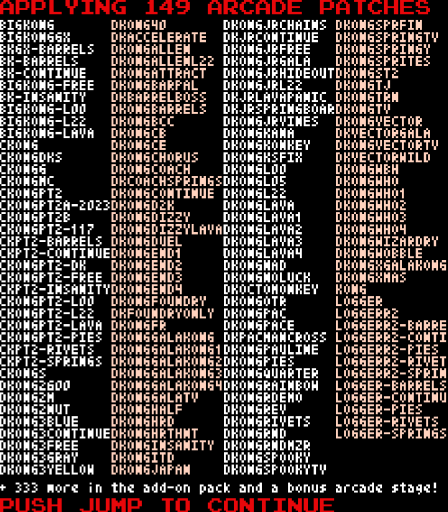
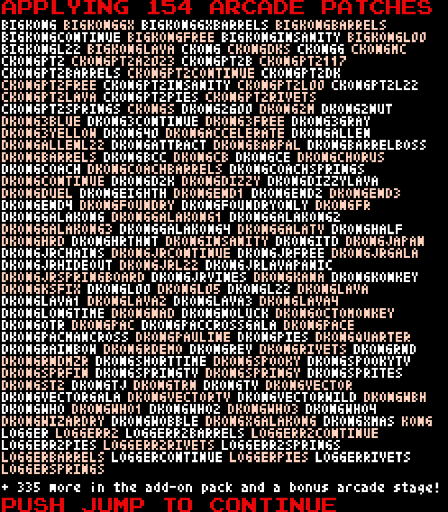
Finish work on training room reformat the applied patches summary screen

diff --git a/launch.py b/launch.py
@@ -135,20 +135,19 @@ def check_patches_available():
         applied_patches, installed_addons = apply_patches_and_addons()
         if applied_patches:
             clear_screen()
-            x_offset, y_offset = 0, 10
-            stripe = WHITE
             write_text(f"APPLYING {str(len(applied_patches))} ARCADE PATCHES", font=dk_font, y=0, fg=RED)
+            x_offset, y_offset = 0, 10
+            _stripe = WHITE
             for i, patch in enumerate(applied_patches):
-                _patch = patch.upper().replace("_","-")
-                if len(_patch) > 10:
-                    _patch = _patch.replace("DKONG", "DK").replace("BIGKONG", "BK").replace("CKONG", "CK").replace("LOGGER", "LG")
-                write_text(_patch, font=pl_font7, x=x_offset, y=y_offset, fg=stripe)
+                _patch = patch.upper().replace("_","")
+                _width = (len(_patch) * 4) + 3
+                if x_offset + _width > 223:
+                    x_offset = 0
+                    y_offset += 6
+                write_text(_patch, font=pl_font7, x=x_offset, y=y_offset, fg=_stripe)
+                _stripe = PINK if _stripe == WHITE else WHITE
+                x_offset += _width
                 update_screen(delay_ms=20)
-                y_offset += 6
-                if y_offset > 236:
-                    x_offset += 44
-                    y_offset = 10
-                    stripe = PINK if stripe == WHITE else WHITE
         if installed_addons:
             if not applied_patches:
                 # Do we need a heading?
@@ -1497,8 +1496,9 @@ def process_interrupts():
                 _g.grab = False
                 _g.cointype = 0
             if ticks % 5000 > 4500:
-                # Will DK grab a coin?
-                _g.grab = randint(1, COIN_FREQUENCY) == 1
+                # Will DK grab a coin?  Doesn't grab a coin on the last stage (training)
+                if _g.stage < 8:
+                    _g.grab = randint(1, COIN_FREQUENCY) == 1
             _g.screen.blit(get_image(f"artwork/sprite/{prefix}0.png"), (11 + _g.dkx, 52 + _g.dky))
 
     if get_theme() == "pm":
@@ -1521,16 +1521,19 @@ def process_interrupts():
 
         # Pauline announces the launch options
         if SHOW_GAMETEXT and alt:
-            # Gametext already informs about JUMP and P1 Start buttons,  so announce the score targets instead.
-            _mins = " mins" if sub == "shell" or emu == 3 else ""
-            if since_last_move() % 4 > 3:
-                p_des = f'1st prize at {format_K(st1, st3)}' + _mins
-            elif since_last_move() % 4 > 2:
-                p_des = f'2nd prize at {format_K(st2, st3)}' + _mins
-            elif since_last_move() % 4 > 1:
-                p_des = f'3rd prize at {format_K(st3, st3)}' + _mins
+            if st3 and st2 and st1 and not BASIC_MODE:
+                # Gametext already informs about JUMP and P1 Start buttons,  so announce the score targets instead.
+                _mins = " mins" if sub == "shell" or emu == 3 else ""
+                if since_last_move() % 4 > 3:
+                    p_des = f'1st prize at {format_K(st1, st3)}' + _mins
+                elif since_last_move() % 4 > 2:
+                    p_des = f'2nd prize at {format_K(st2, st3)}' + _mins
+                elif since_last_move() % 4 > 1:
+                    p_des = f'3rd prize at {format_K(st3, st3)}' + _mins
+                else:
+                    p_des = alt.replace(" :", ":").replace("№","00")
             else:
-                p_des = alt.replace(" :", ":").replace("№","00")
+                p_des = alt.replace(" :", ":").replace("№", "00")
             if p_des:
                 write_text(p_des, x=108 + _g.psx, y=38 + _g.psy, bg=MAGENTA, fg=PINK, bubble=True)
         else:

diff --git a/readme.md b/readme.md
@@ -18,8 +18,8 @@ The latest releases are available to download from below.  Refer to the [How to 
 
 | Download Link                                                                                                        | Version | Operating System                           |
 | -------------------------------------------------------------------------------------------------------------------- | ------- | -------------------------------------------|
-| [dkafe_win64_binary_v0.77.zip](https://github.com/10yard/dkafe/releases/download/v0.77/dkafe_win64_binary_v0.77.zip) | 0.77    | Windows 64 bit (x64) systems (Recommended) |
-| [dkafe_win32_binary_v0.77.zip](https://github.com/10yard/dkafe/releases/download/v0.77/dkafe_win32_binary_v0.77.zip) | 0.77    | Windows 32 bit (x86) systems               |
+| [dkafe_win64_binary_v0.78.zip](https://github.com/10yard/dkafe/releases/download/v0.78/dkafe_win64_binary_v0.78.zip) | 0.78    | Windows 64 bit (x64) systems (Recommended) |
+| [dkafe_win32_binary_v0.78.zip](https://github.com/10yard/dkafe/releases/download/v0.78/dkafe_win32_binary_v0.78.zip) | 0.78    | Windows 32 bit (x86) systems               |
 | [dkafe_rpi4_image_v0.77.gz](https://github.com/10yard/dkafe/releases/download/v0.77/dkafe_rpi4_image_v0.77.gz)       | 0.77    | Raspberry Pi 4 and 400 only                |
 | [dkafe_winxp_binary_v0.67.zip](https://github.com/10yard/dkafe/releases/download/v0.67/dkafe_winxp_binary_v0.67.zip) | 0.67    | Windows XP (No longer maintained)          |
 
@@ -64,8 +64,12 @@ The console add-on pack adds up to 5 extra stages and is packed out with hundred
  - MAME plugins and scripts that interface with the frontend to add cool features such as score targets, stage practice and a coaching mode.
  - A built in music playlist that features 16 fantastic Donkey Kong remix tracks by default.
  - Extensive configuration options.
- - A training room,  where you can improve your Donkey Kong playing skills.
  - An optional console add-on pack featuring over 300 ports, clones and hacks for 60 classic gaming systems, and a bonus arcade stage.
+ - A training room,  where you can work on improving your Donkey Kong playing skills.
+
+
+![Training room](https://github.com/10yard/dkafe/blob/master/artwork/about/training_room.png)
+
 
 ### The frontend does not include:
  - Roms or information on how to obtain them.
